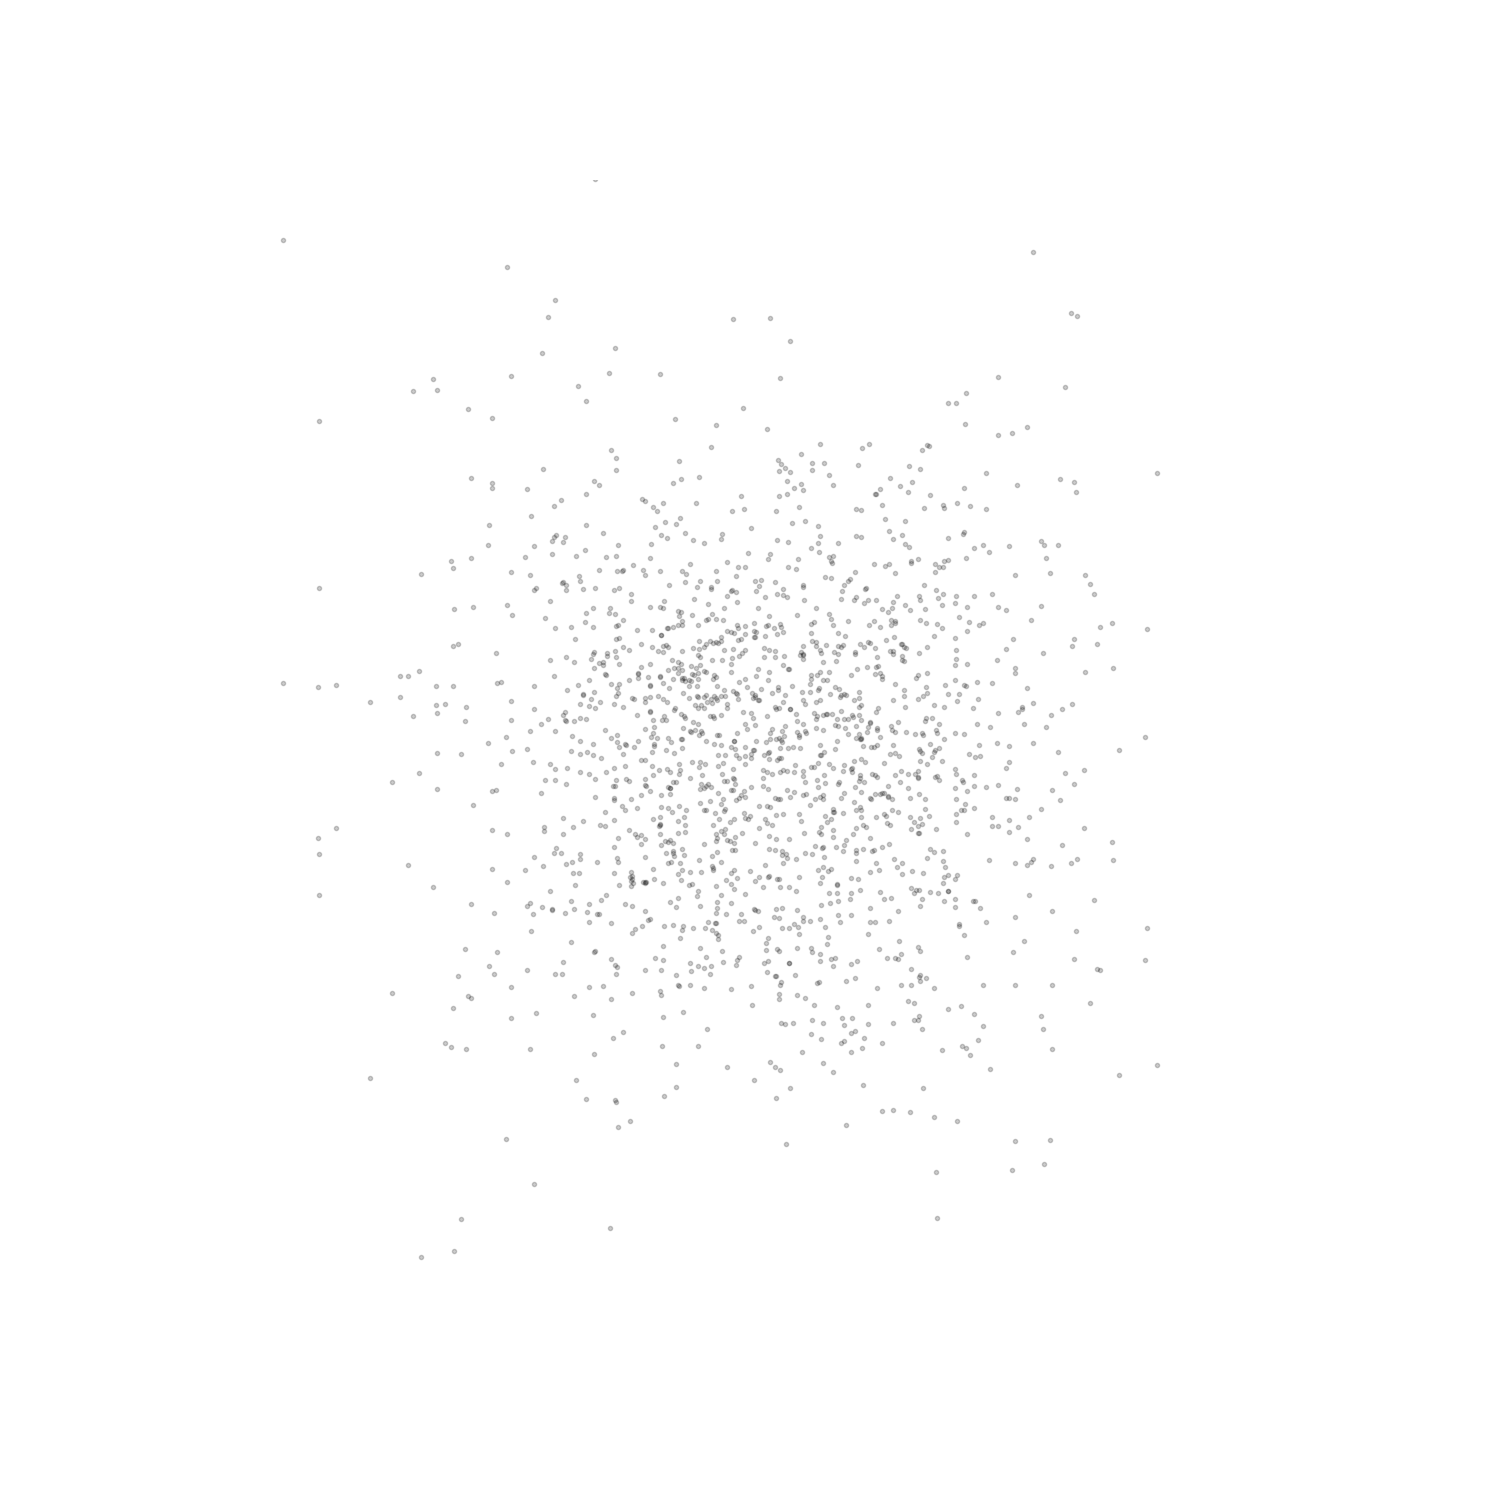
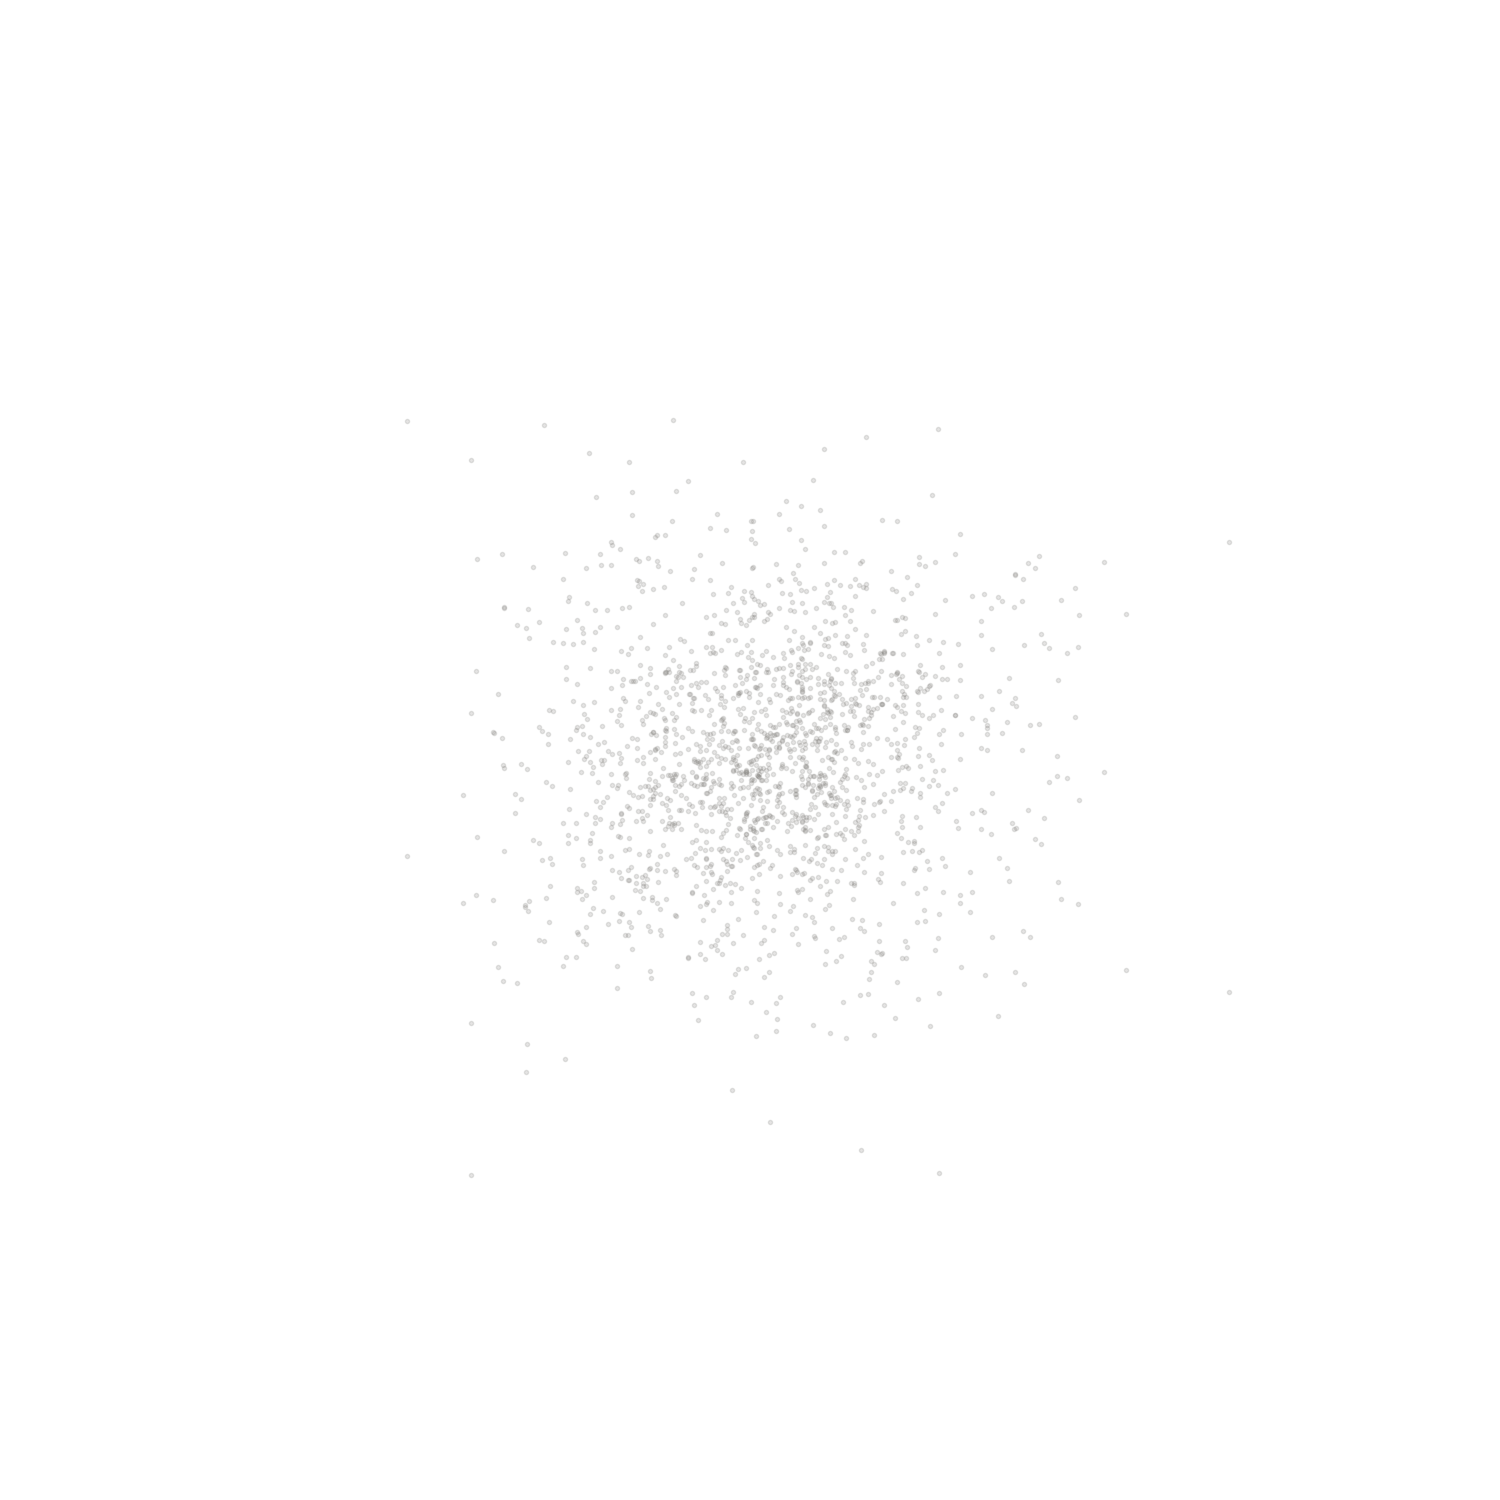
different graphics and top bar

Changed region(s): [[0.368, 0.3067, 0.7053, 0.6747], [0.552, 0.6747, 0.5827, 0.7053]]

diff --git a/index.html b/index.html
@@ -16,34 +16,48 @@
 <body>
 
     <div class="grid-container">
-        <div class="grid-x">
-            <div class="cell auto" style="text-align: left;">
+        <div class="title-bar" data-sticky data-options="marginTop:0;" style="width: 100%; border: solid black; background-color: #f5f5f5;">
+            <div class="title-bar-left">
                 <a href="index.html" class="clear button secondary large">
                     <img src="static/logo/mathkills1.png" style="width: 300px; height: auto;">
                 </a>
             </div>
-            <div class="cell auto">
-                <a href="work.html" class="clear button secondary large expanded">
-                    WORK
-                </a>
-            </div>
-            <div class="cell auto">
-                <a href="404.html" class="clear button secondary large expanded">
-                    SUPPORT
-                </a>
-            </div>
-        </div>
-        <div class="grid-x">
-            <div class="cell auto">
-            </div>
-            <div class="cell auto">
+            <ul class="menu">
+                <li>
+                    <a href="work.html" class="clear button secondary large">
+                        CONJOINT
+                    </a>
+                </li>
+                <li>
+                    <a href="404.html" class="clear button secondary large">
+                        WORKSHOPS
+                    </a>
+                </li>
+                <li>
+                    <a href="404.html" class="clear button secondary large">
+                        WRITING
+                    </a>
+                </li>
+                <li>
+                    <a href="404.html" class="clear button secondary large">
+                        PODCAST
+                    </a>
+                </li>
+                <li>
+                    <a href="404.html" class="clear button secondary large">
+                        ABOUT
+                    </a>
+                </li>
 
-            </div>
+            </ul>
         </div>
     <div>
 
     <div class="grid-container">
-        <div class="grid-x" style="height: 600px; background-image: url(static/images/cloud.png); background-position: 50% 35%; background-repeat: no-repeat; background-size: 70rem; background-attachment: fixed; background-color: #f5f5f5;">
+        <div class="grid-x" style="height: 700px; background-image: url(static/images/cloud.png); background-position: 50% 10%; background-repeat: no-repeat; background-size: 70rem; background-attachment: fixed; background-color: #f5f5f5;">
+        <h1>
+            I study how people make decisions.
+        </h1>
         </div>
     </div>
 
@@ -51,14 +65,14 @@
         <div class="grid-x">
             <div class="cell auto" style="text-align: left;">
                 <h1 style="color: #00214e;">
-                    Predict Responsibly
+                    Choose Wisely
                 </h1>
             </div>
         </div>
         <div class="grid-x">
             <div class="cell auto">
                 <p style="color: black;">
-                    Math is a powerful tool. When used responsibly, it can be extremely helpful. On the other hand, it's easy to jump to the conclusions and really screw things up. That's why you need to come to me. I'll work with you to make sure the models you implement in your business are built on solid, rigorous principles with diagnostics and tests to make sure that you don't mess something up.
+                    Math is a powerful tool. When used responsibly, it can be extremely helpful. On the other hand, it's easy to jump to the conclusions and really screw things up. That's where I come in. I'll work with you to make sure the models you implement in your business are built on solid, rigorous principles with diagnostics and tests to make sure that you don't mess something up.
                 </p>
                 <a href="work.html" class="hollow button secondary large expanded">WORK</a>
             </div>
@@ -66,7 +80,7 @@
     </div>
     
     <div class="grid-container">
-        <div class="grid-x" style="height: 500px; background-image: url(static/images/choicemodel1.png); background-position: 50% 50%; background-repeat: no-repeat; background-size: 70rem; background-attachment: fixed;">
+        <div class="grid-x" style="height: 700px; background-image: url(static/images/cloudcolor.png); background-position: 50% 10%; background-repeat: no-repeat; background-size: 70rem; background-attachment: fixed;">
         </div>
     </div>
 
@@ -74,7 +88,7 @@
         <div class="grid-x">
             <div class="cell auto" style="text-align: left; color: #00214e;">
                 <h1>
-                    Think & Thrive
+                    Predict Responsibly
                 </h1>
             </div>
         </div>
@@ -87,7 +101,7 @@
     </div>
 
     <div class="grid-container">
-        <div class="grid-x" style="height: 500px; background-image: url(static/images/choicemodel2.png); background-position: 50% 50%; background-repeat: no-repeat; background-size: 50rem; background-attachment: fixed;">
+        <div class="grid-x" style="height: 700px; background-image: url(static/images/betaful3.png); background-position: 50% 50%; background-repeat: no-repeat; background-size: 50rem; background-attachment: fixed;">
         </div>
     </div>
 
@@ -95,14 +109,24 @@
         <div class="grid-x">
             <div class="cell auto" style="text-align: left; color: #00214e;">
                 <h1>
-                    Help Me Out!
+                    Hire Me!
                 </h1>
                 <p style="color: black;">
-                    Doing math is hard. It takes years (a lifetime!) to fully comprehend all of the significance of even simple concepts. It requires constant learning and growth. That's where you can help. By supporting me via Patreon, you can help me continue to provide useful resources to you. What you give makes what I do possible and it improves what I bring to the table in my consultations. Whatever you donate is appreciated!
+                    Doing math is hard. It takes lots of hard work to fully comprehend all of the significance of even simple concepts. It requires constant learning and growth. That's where you can help. By supporting me via Patreon, you can help me continue to provide useful resources to you. What you give makes what I do possible and it improves what I bring to the table in my consultations. Whatever you donate is appreciated!
                 </p>
                 <a href="404.html" class="hollow button secondary large expanded">
                     SUPPORT
                 </a>
+            </div>
+        </div>
+    </div>
+
+    <div class="grid-container">
+        <div class="grid-x">
+            <div class="cell auto" style="text-align: center; color: black;">
+                <p>
+                    &#169 2020 Derek Miller.
+                </p>
             </div>
         </div>
     </div>

diff --git a/home.css b/home.css
@@ -4,6 +4,6 @@ body {
   background-size: 20rem, 8rem;
   background-position: right bottom, left bottom;
   background-blend-mode: normal, normal;
-  background-attachment: fixed, fixed;
+  background-attachment: scroll, scroll;
   background-color: #f5f5f5;
 }

diff --git a/static/images/betaful.py b/static/images/betaful.py
@@ -33,7 +33,7 @@ def figure02():
     plt.savefig('choicemodel1', transparent=True)
 
     plt.figure(figsize=(15,8))
-    plt.scatter(x, y, color='#00214e')
+    plt.scatter(x, y, color='k')
     plt.plot(x,1/(1+np.exp(-10*x)), color='#ffea47')
     plt.xlim(-1.1,1.1)
     plt.ylim(-.1,1.1)
@@ -43,17 +43,28 @@ def figure02():
 
 
 def figure03():
+    np.random.seed(450473)
     x = np.random.randn(900)
-    y = .5*x + np.random.randn(900)
-    z = -.5*x + np.random.randn(900)
-    plt.figure(figsize=(15,15))
-    plt.plot(x, y, '.', color='k', alpha=.2)
-    plt.plot(x, z, '.', color='k', alpha=.2)
+    y = -.3*x + np.random.randn(900)
+    z = .5*x + np.random.normal(0,.7,size=900)
 
-    plt.xlim(-4,4)
-    plt.ylim(-4,4)
+    plt.figure(figsize=(15,15))
+    plt.plot(x, y, '.', color='#7c7a76', alpha=.2)
+    plt.plot(x, z, '.', color='#7c7a76', alpha=.2)
+
+    plt.xlim(-5,5)
+    plt.ylim(-5,5)
     plt.axis(False)
     plt.savefig('cloud', transparent=True)
+
+    plt.figure(figsize=(15,15))
+    plt.plot(x, y, '.', color='#7c7a76', alpha=.2)
+    plt.plot(x, z, '.', color='#00214e', alpha=.5)
+
+    plt.xlim(-5,5)
+    plt.ylim(-5,5)
+    plt.axis(False)
+    plt.savefig('cloudcolor', transparent=True)
 
 
 figure03()
